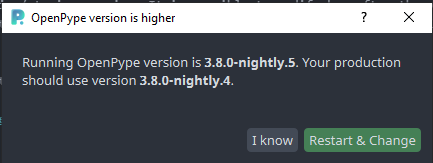
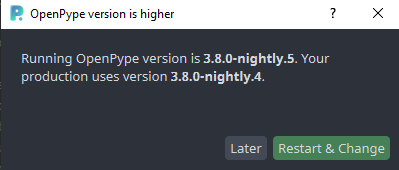
change label from "I know" to "Later"

diff --git a/openpype/tools/tray/pype_tray.py b/openpype/tools/tray/pype_tray.py
@@ -180,7 +180,7 @@ class VersionDialog(QtWidgets.QDialog):
                 "Running OpenPype version is <b>{}</b>."
                 " Your production uses version <b>{}</b>."
             ).format(str(current_version), str(expected_version))
-            ignore_label = "I know"
+            ignore_label = "Later"
             restart_label = "Restart && Change"
 
         self.setWindowTitle(title)
